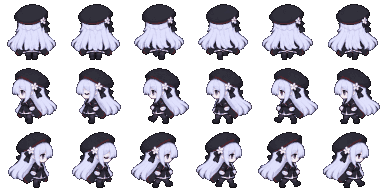
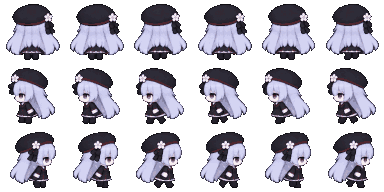
feat: unify Mio dungeon sprites across eight directions

diff --git a/rogue-like-play/tools/format_mio_chibi.py b/rogue-like-play/tools/format_mio_chibi.py
@@ -3,23 +3,28 @@ from pathlib import Path
 import json
 import numpy as np
 from PIL import Image
+from process_animation_sheet import find_components
 
 ROOT = Path(__file__).resolve().parents[1]
 OUTPUT = ROOT / 'art/characters/mio_dungeon_chibi_64'
 
 
 def main():
-	source = Image.open(OUTPUT / 'source.png').convert('RGBA')
+	source = Image.open(OUTPUT / 'source_front_v2.png').convert('RGBA')
+	source.putalpha(source.getchannel('A').point(lambda a:255 if a >=160 else 0))
+	# Generated boards do not guarantee equally spaced cells. Locate figures
+	# before registering them; otherwise a cell boundary can cut off hair/feet.
+	components = sorted(find_components(source), key=lambda c:len(c.pixels), reverse=True)[:16]
+	assert len(components) == 16
+	assert min(len(c.pixels) for c in components) > 1000
+	components.sort(key=lambda c:c.center[1])
+	ordered = []
+	for row in range(4):
+		ordered.extend(sorted(components[row*4:row*4+4],key=lambda c:c.center[0]))
 	frames = []
-	for index in range(16):
-		x, y = index % 4, index // 4
-		cell = source.crop((round(x*source.width/4), round(y*source.height/4),
-			round((x+1)*source.width/4), round((y+1)*source.height/4)))
-		cell.putalpha(cell.getchannel('A').point(lambda a: 255 if a >= 160 else 0))
-		box = cell.getbbox()
-		assert box, f'Empty source cell {index}'
-		cell = cell.crop(box)
-		cell = cell.resize((round(cell.width*56/cell.height),56),Image.Resampling.BOX)
+	for component in ordered:
+		cell = source.crop(component.bbox)
+		cell = cell.resize((min(60, round(cell.width*56/cell.height)),56),Image.Resampling.BOX)
 		cell.putalpha(cell.getchannel('A').point(lambda a:255 if a >=128 else 0))
 		# Register the face, not the asymmetrical outer hair silhouette.
 		face = np.asarray(cell)[10:28].astype(np.int16)
@@ -27,14 +32,14 @@ def main():
 		_, xs = np.where(mask)
 		center = round(float(np.median(xs))) if len(xs) else cell.width//2
 		frame = Image.new('RGBA',(64,64))
-		frame.alpha_composite(cell,(32-center,4))
+		left = max(2,min(62-cell.width,32-center))
+		frame.alpha_composite(cell,(left,4))
 		assert frame.getbbox()[3] == 60
 		assert min(frame.getbbox()[0],64-frame.getbbox()[2]) >= 2
 		frames.append(frame)
-	colors = []
-	for frame in frames:
-		p = np.asarray(frame)
-		colors.extend(p[:,:,:3][p[:,:,3]==255].tolist())
+	# Use the approved side/diagonal colors instead of the hub palette.
+	p = np.asarray(Image.open(OUTPUT/'diagonal.png').convert('RGBA'))
+	colors = p[:,:,:3][p[:,:,3]==255].tolist()
 	palette_source = Image.new('RGB',(len(colors),1))
 	palette_source.putdata([tuple(c) for c in colors])
 	palette = palette_source.quantize(colors=48,method=Image.Quantize.MEDIANCUT)

diff --git a/rogue-like-play/tools/format_mio_directions.py b/rogue-like-play/tools/format_mio_directions.py
@@ -2,6 +2,7 @@
 from pathlib import Path
 import numpy as np
 from PIL import Image
+from process_animation_sheet import find_components
 
 ROOT = Path(__file__).resolve().parents[1]
 OUTPUT = ROOT / 'art/characters/mio_dungeon_chibi_64'
@@ -9,16 +10,17 @@ OUTPUT = ROOT / 'art/characters/mio_dungeon_chibi_64'
 
 def pack(source_name, rows, output_name, palette):
 	source = Image.open(OUTPUT / source_name).convert('RGBA')
+	source.putalpha(source.getchannel('A').point(lambda a:255 if a>=160 else 0))
+	# Generated rows are not guaranteed to align with equal source cells.
+	components = sorted(find_components(source), key=lambda c:len(c.pixels), reverse=True)[:rows*6]
+	assert len(components) == rows*6 and min(len(c.pixels) for c in components) > 1000
+	components.sort(key=lambda c:c.center[1])
 	atlas = Image.new('RGBA', (384, rows * 64))
 	for row in range(rows):
+		row_components = sorted(components[row*6:row*6+6], key=lambda c:c.center[0])
 		for col in range(6):
-			cell = source.crop((round(col*source.width/6), round(row*source.height/rows),
-				round((col+1)*source.width/6), round((row+1)*source.height/rows)))
-			cell.putalpha(cell.getchannel('A').point(lambda a:255 if a>=160 else 0))
-			box = cell.getbbox()
-			assert box, (row,col)
-			cell = cell.crop(box)
-			cell = cell.resize((round(cell.width*56/cell.height),56),Image.Resampling.BOX)
+			cell = source.crop(row_components[col].bbox)
+			cell = cell.resize((min(60,round(cell.width*56/cell.height)),56),Image.Resampling.BOX)
 			alpha = cell.getchannel('A').point(lambda a:255 if a>=128 else 0)
 			color = cell.convert('RGB').quantize(palette=palette,dither=Image.Dither.NONE).convert('RGBA')
 			color.putalpha(alpha)
@@ -43,8 +45,8 @@ def main():
 	palette_source = Image.new('RGB',(len(colors),1))
 	palette_source.putdata([tuple(c) for c in colors])
 	palette = palette_source.quantize(colors=48,method=Image.Quantize.MEDIANCUT)
-	cardinal = pack('cardinal_source.png',3,'cardinal.png',palette)
-	diagonal = pack('diagonal_source.png',4,'diagonal.png',palette)
+	cardinal = pack('cardinal_source_v2.png',3,'cardinal.png',palette)
+	diagonal = pack('diagonal_source_v2.png',4,'diagonal.png',palette)
 	contact = Image.new('RGBA',(8*64,64))
 	contact.alpha_composite(front.crop((0,0,64,64)),(0,0))
 	for i in range(3):
